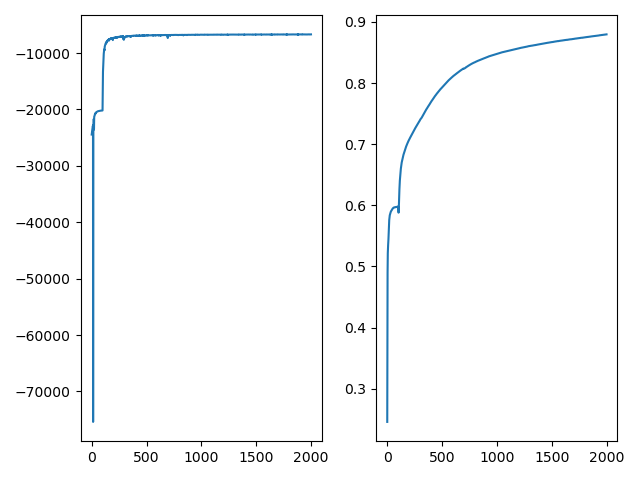
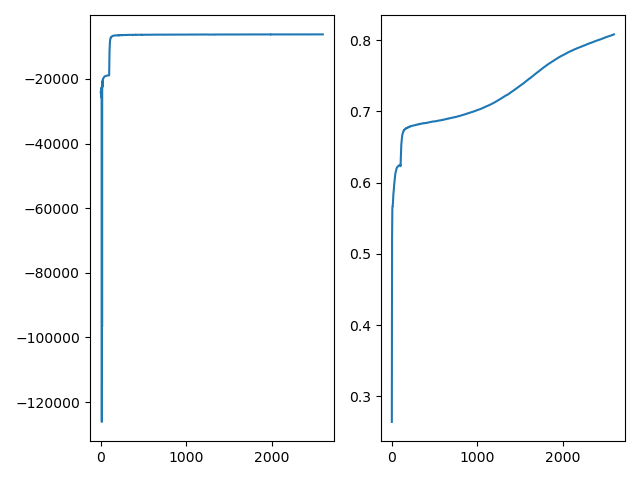
2d seems to work for tp?

diff --git a/inference.py b/inference.py
@@ -75,7 +75,7 @@ def structured_elbo_s(rng, theta, phi_s, logpx, cov_fn, x, t, tau, nsamples):
 def structured_elbo(rng, theta, phi, logpx, cov_fn, x, t, nsamples):
     nsamples_s, nsamples_tau = nsamples
     theta_tau = theta[2]
-    theta_tau = jnp.exp(theta_tau)
+    theta_tau = 2.+jnp.exp(theta_tau)
     phi_s, phi_tau = phi[:2]
     N = phi_tau[0].shape[0]
     # in case df param is replicated to be same for all ICs
